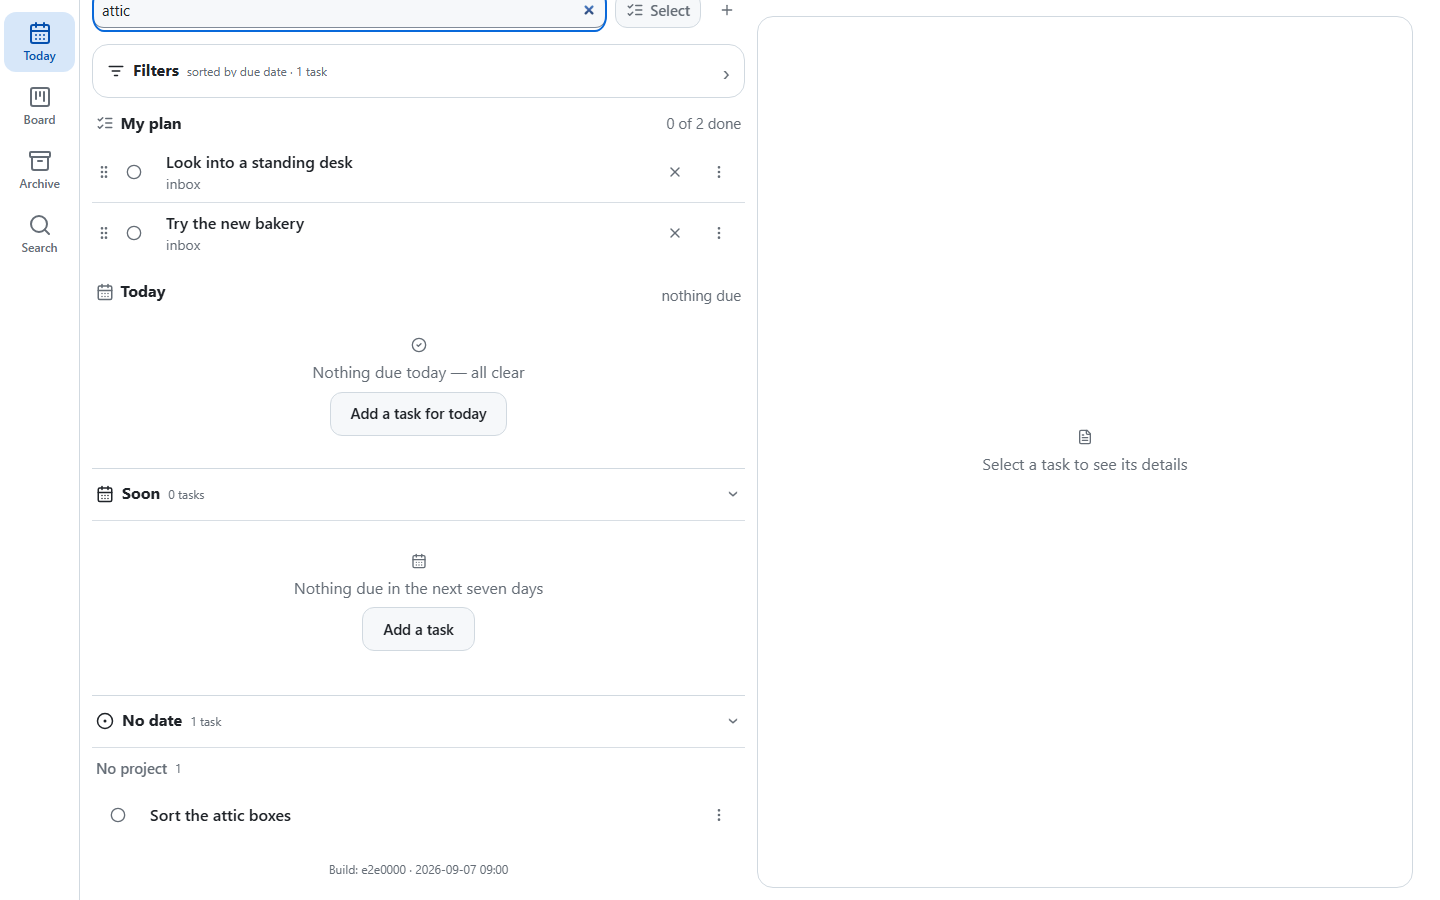
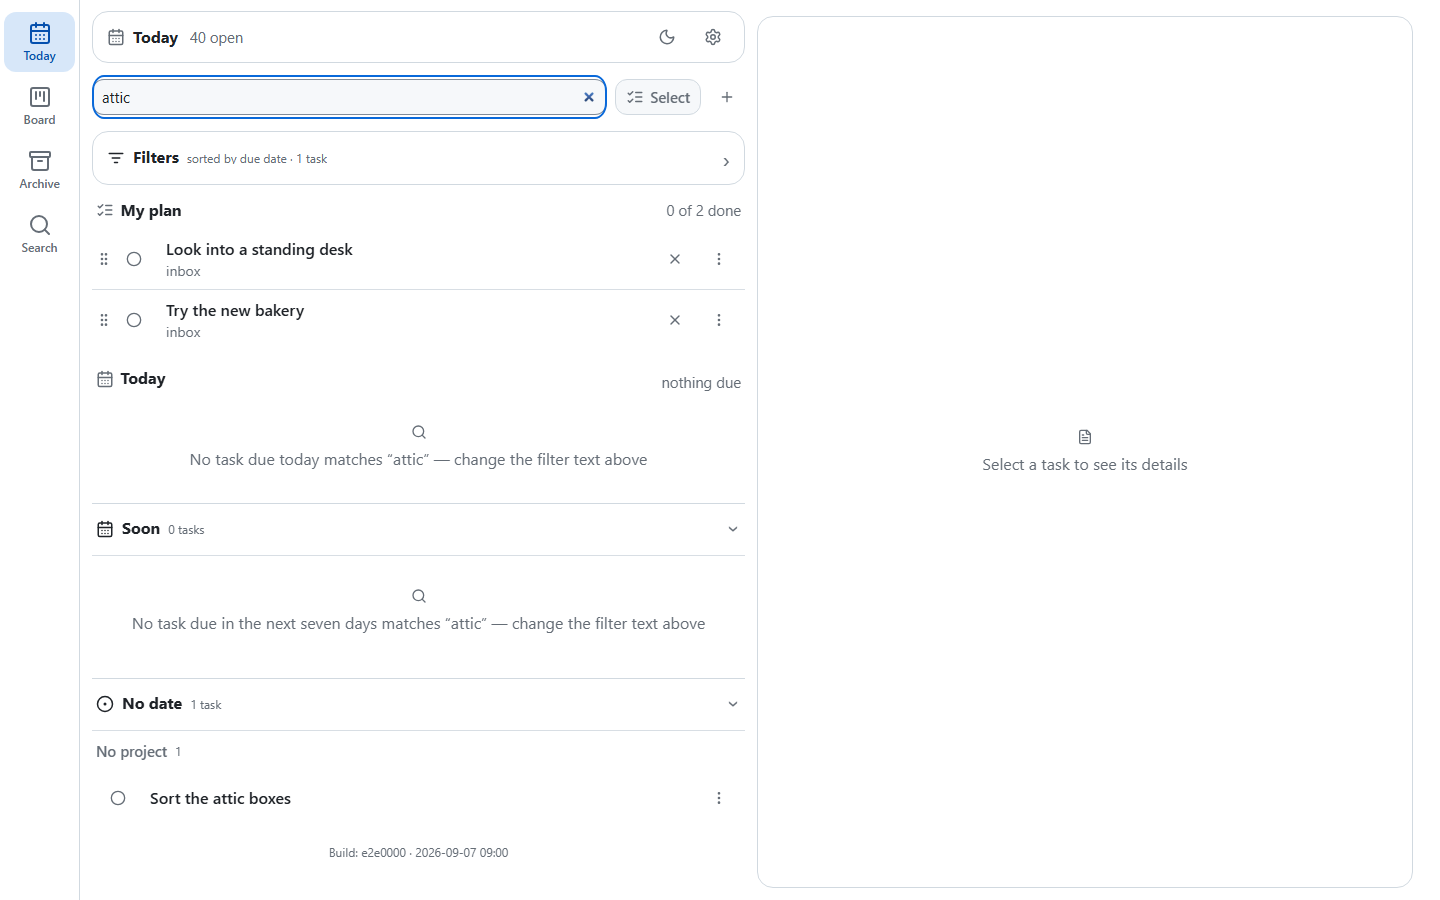
fix: say "no matches" on Today under a text filter, not "all clear" (#339) (#363)
- An empty Today or Soon section read "all clear" while a text filter
  was hiding the day's tasks; it now says no task matches the filter
  and names the filter box
- Without a filter the wording and the Add-a-task actions are unchanged
- Story 05's horizons walk checks both sections under a filter, seen
  red on the old wording first; one shot re-baselined

Claude-Session: https://claude.ai/code/session_01NN5hoxAjgCvH66KHji5pBk

diff --git a/app/webapp/static/today.js b/app/webapp/static/today.js
@@ -123,7 +123,7 @@ function groupByRoot(items, sort) {
  *          onPlan?: (id:number)=>Promise<any>, onUnplan?: (id:number)=>Promise<any>,
  *          onReorder?: (ids:number[])=>Promise<any>, onPlanMode?: (on:boolean)=>void,
  *          onToggleSelect?: (id:number)=>void}} handlers
- * @param {{sort?: string, today?: string,
+ * @param {{sort?: string, today?: string, query?: string,
  *          plan?: {items: Array<object>, done: number, total: number},
  *          planMode?: boolean, calendar?: object|null,
  *          selectable?: boolean, isSelected?: (id:number)=>boolean}} [opts]
@@ -178,11 +178,18 @@ export function renderToday(host, items, handlers, opts) {
   head.appendChild(meta);
   section.appendChild(head);
 
+  // Under a text filter an empty section says the filter hid it, never "all
+  // clear": the day may be full (#339). The way forward is the box it names.
+  const q = (o.query || '').trim();
+  const noMatch = function (what) {
+    return 'No task ' + what + ' matches “' + q + '” — change the filter text above';
+  };
   if (!data.due.length) {
     // …with its way forward (#339): a task due today
-    section.appendChild(emptyStateEl('circle-check', 'Nothing due today — all clear', handlers.onAdd ? {
-      actionLabel: 'Add a task for today', onAction: function () { handlers.onAdd({ due: t }); },
-    } : undefined));
+    section.appendChild(q ? emptyStateEl('search', noMatch('due today'))
+      : emptyStateEl('circle-check', 'Nothing due today — all clear', handlers.onAdd ? {
+        actionLabel: 'Add a task for today', onAction: function () { handlers.onAdd({ due: t }); },
+      } : undefined));
   } else {
     data.due.forEach(function (g) { section.appendChild(buildGroup(g, handlers, o)); });
   }
@@ -191,9 +198,10 @@ export function renderToday(host, items, handlers, opts) {
   // Soon always shows, with its way forward when it is empty; Later and No
   // date only when they hold something — an empty far horizon says nothing.
   main.appendChild(horizon('today-soon', 'calendar-days', 'Soon', data.week, counts.week, handlers, o,
-    emptyStateEl('calendar-days', 'Nothing due in the next seven days', handlers.onAdd ? {
-      actionLabel: 'Add a task', onAction: function () { handlers.onAdd(); },
-    } : undefined)));
+    q ? emptyStateEl('search', noMatch('due in the next seven days'))
+      : emptyStateEl('calendar-days', 'Nothing due in the next seven days', handlers.onAdd ? {
+        actionLabel: 'Add a task', onAction: function () { handlers.onAdd(); },
+      } : undefined)));
   if (counts.later) main.appendChild(horizon('today-far', 'clock', 'Later', data.later, counts.later, handlers, o));
   if (counts.nodate) main.appendChild(horizon('today-nodate', 'circle-dot', 'No date', data.nodate, counts.nodate, handlers, o));
 }

diff --git a/app/webapp/static/app.js b/app/webapp/static/app.js
@@ -689,7 +689,8 @@ function renderTodayPane() {
     onPlan: planTask, onUnplan: unplanTask, onReorder: reorderPlan, onPlanMode: setPlanMode,
     onToggleSelect: selectHandlers.onToggleSelect, menu: menus.today, onAdd: addTask,
   }, Object.assign({
-    sort: state.filters.sort, plan: state.plan, planMode: state.planMode, calendar: state.calendar,
+    sort: state.filters.sort, query: state.filters.q, plan: state.plan, planMode: state.planMode,
+    calendar: state.calendar,
   }, selectOpts()));
   menus.today.endRender();
 }

diff --git a/tests/e2e/test_story_05_board.py b/tests/e2e/test_story_05_board.py
@@ -1151,6 +1151,11 @@ def _walk_today_horizons(page: Page, base: str, shots: Path) -> None:
         expect(listed).to_have_count(1)
         expect(nodate.locator(f".trow[data-id='{loose}']")).to_be_visible()
         expect(page).to_have_url(re.compile(r"[?&]q=attic"))
+        # under a text filter an empty section says nothing matches it, never
+        # "all clear": the day may be full, the filter just hides it (#339)
+        for empty in (pane.locator("section.today .empty-state"), pane.locator(".today-soon .empty-state")):
+            expect(empty).to_contain_text("matches “attic”")
+            expect(empty).not_to_contain_text("all clear")
         nodate.locator(f".trow[data-id='{loose}']").scroll_into_view_if_needed()
         shot(page, shots / "story-31-today-horizons-2-desktop.png")
         q.fill("")

diff --git a/docs/validation/story-31-today-horizons.md b/docs/validation/story-31-today-horizons.md
@@ -18,3 +18,5 @@ Soon always shows, with its way forward when it is empty; Later and No date only
 - Test: inside `tests/e2e/test_story_05_board.py` (`_walk_today_horizons`), the suite being over its 15-test target (CLAUDE.md). Red first: against the pre-change `today.js` the story fails at its first horizon assertion; that build had no bucket for a task without a date or due past a week, so neither task could appear.
 
 Result: **verified** (e2e desktop, 2026-10-05) · phone walk not separately verified.
+
+**2026-10-05 (#339):** under a text filter an empty Today or Soon section says no task matches it and names the box: *No task due today matches “attic” — change the filter text above*, never *Nothing due today — all clear* (the day may be full; the filter hides it). Without a filter the sentences and their *Add a task* actions are unchanged. Step 2 checks both sections under `attic`, seen red first on the old wording; [shot 2](../screenshots/story-31-today-horizons-2-desktop.png) re-baselined.
